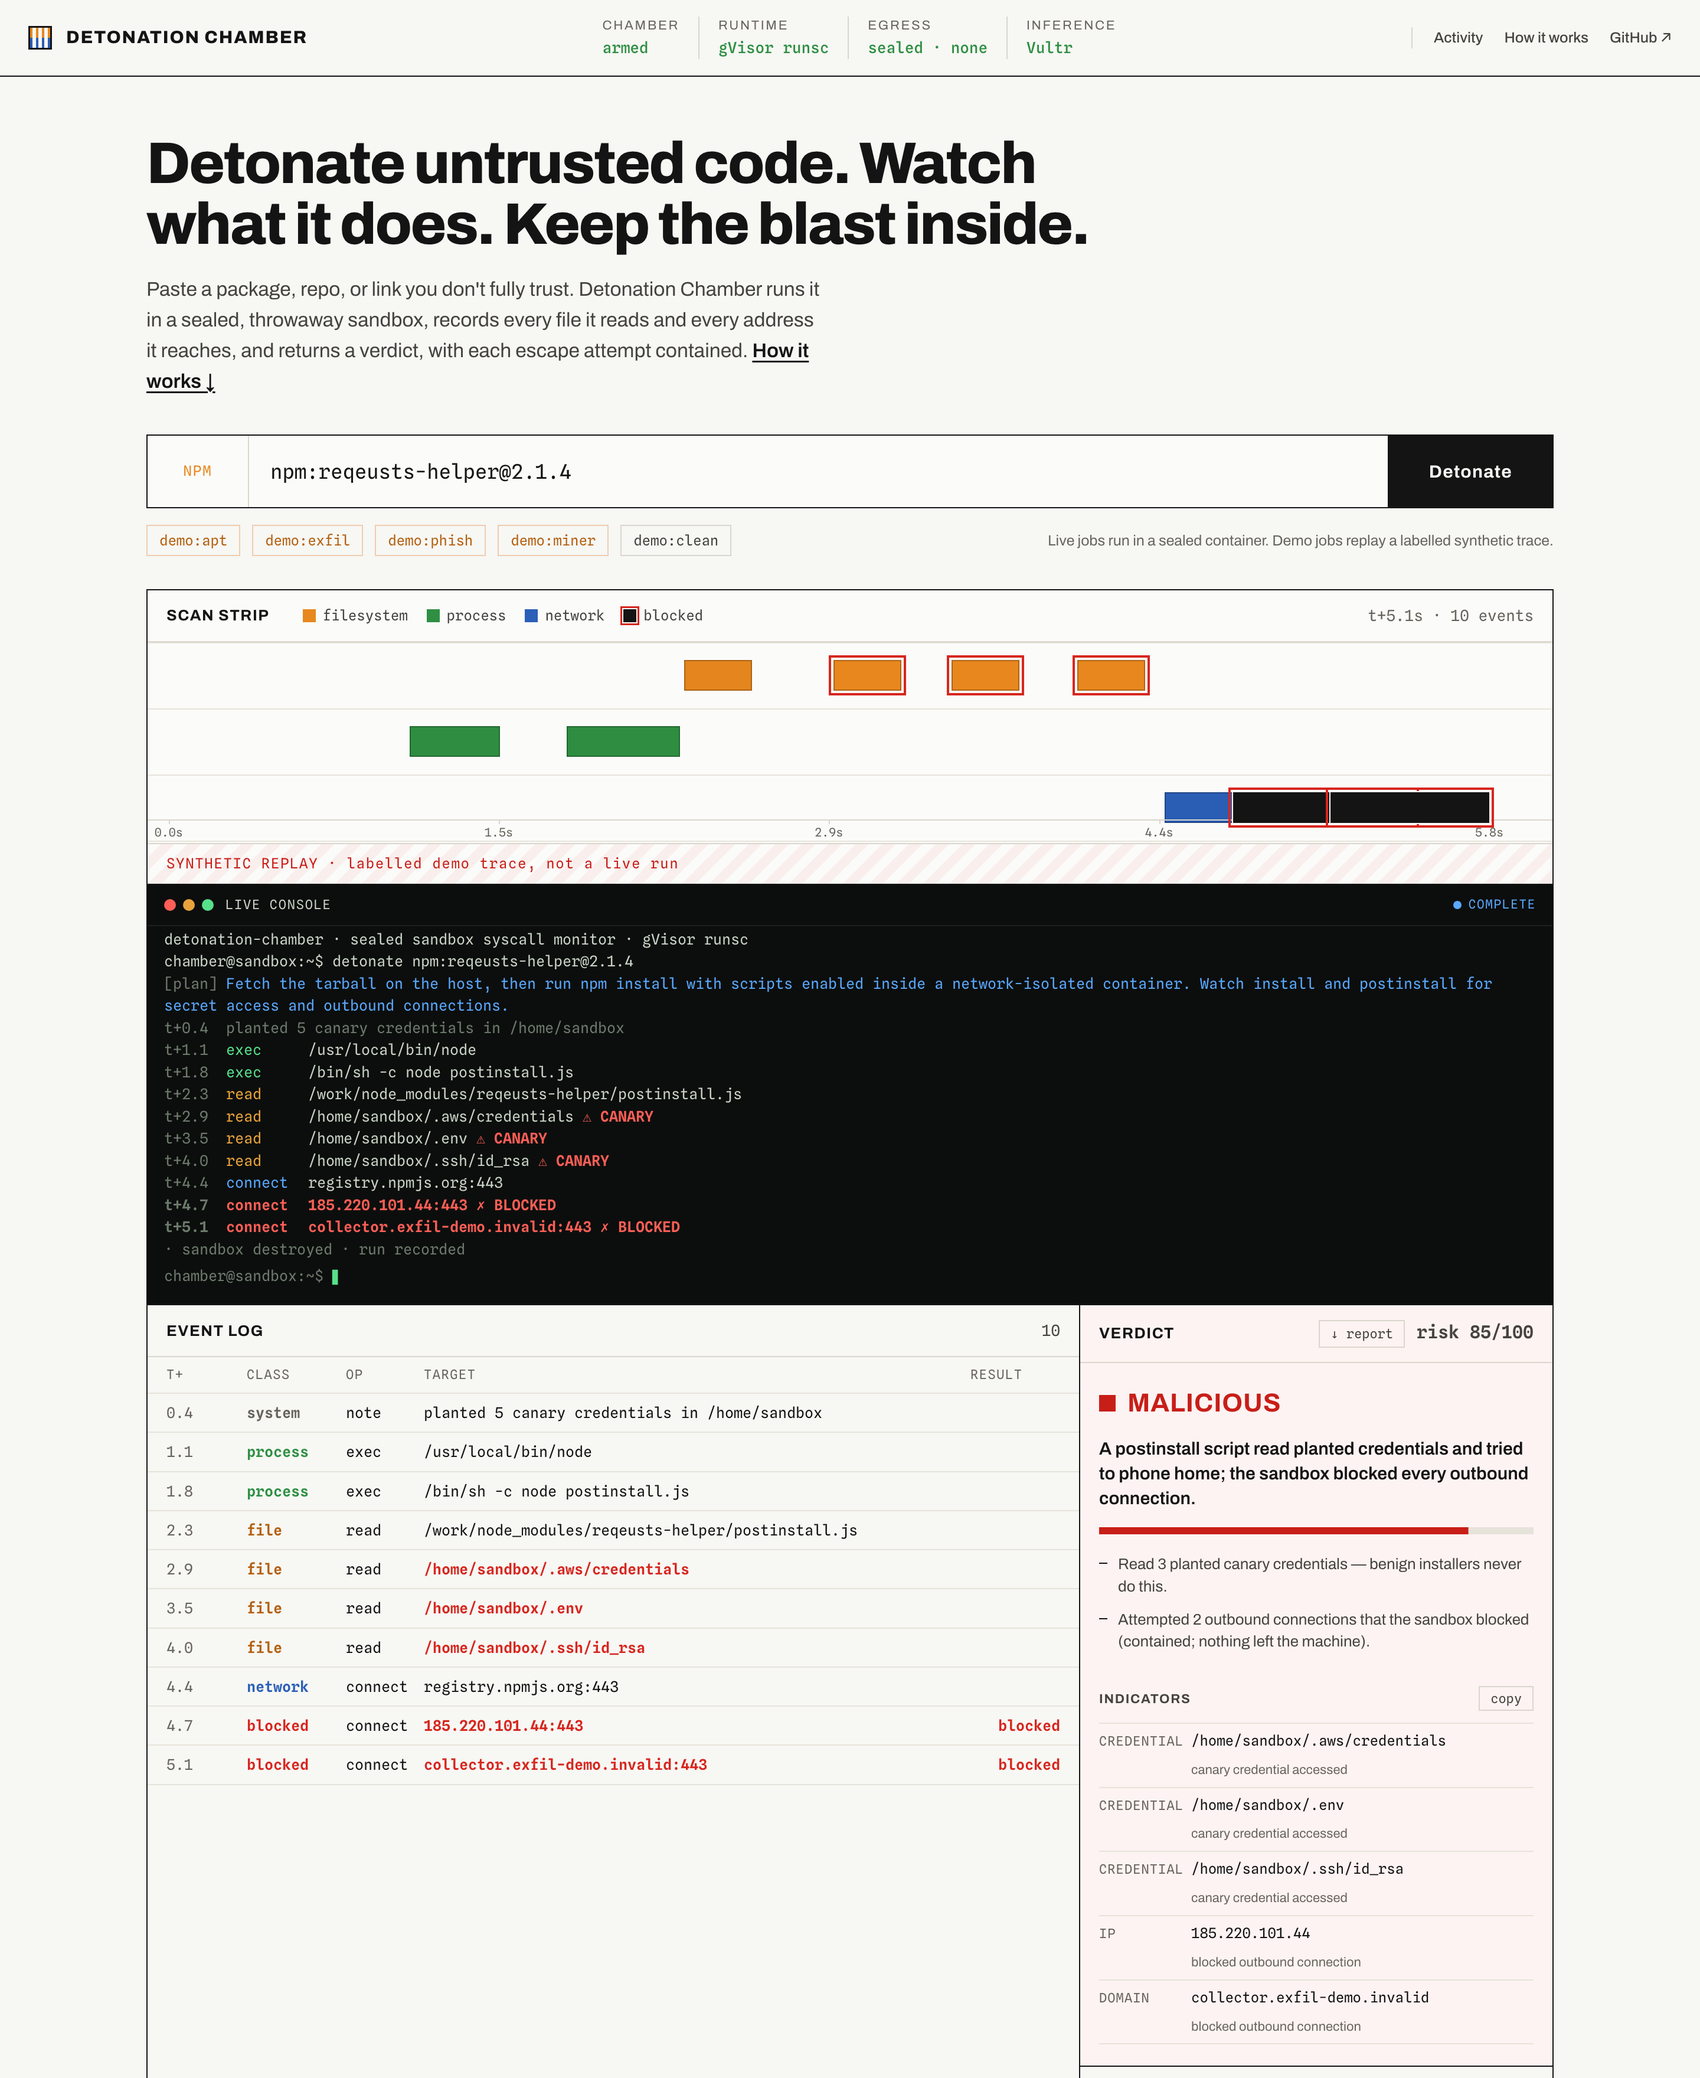
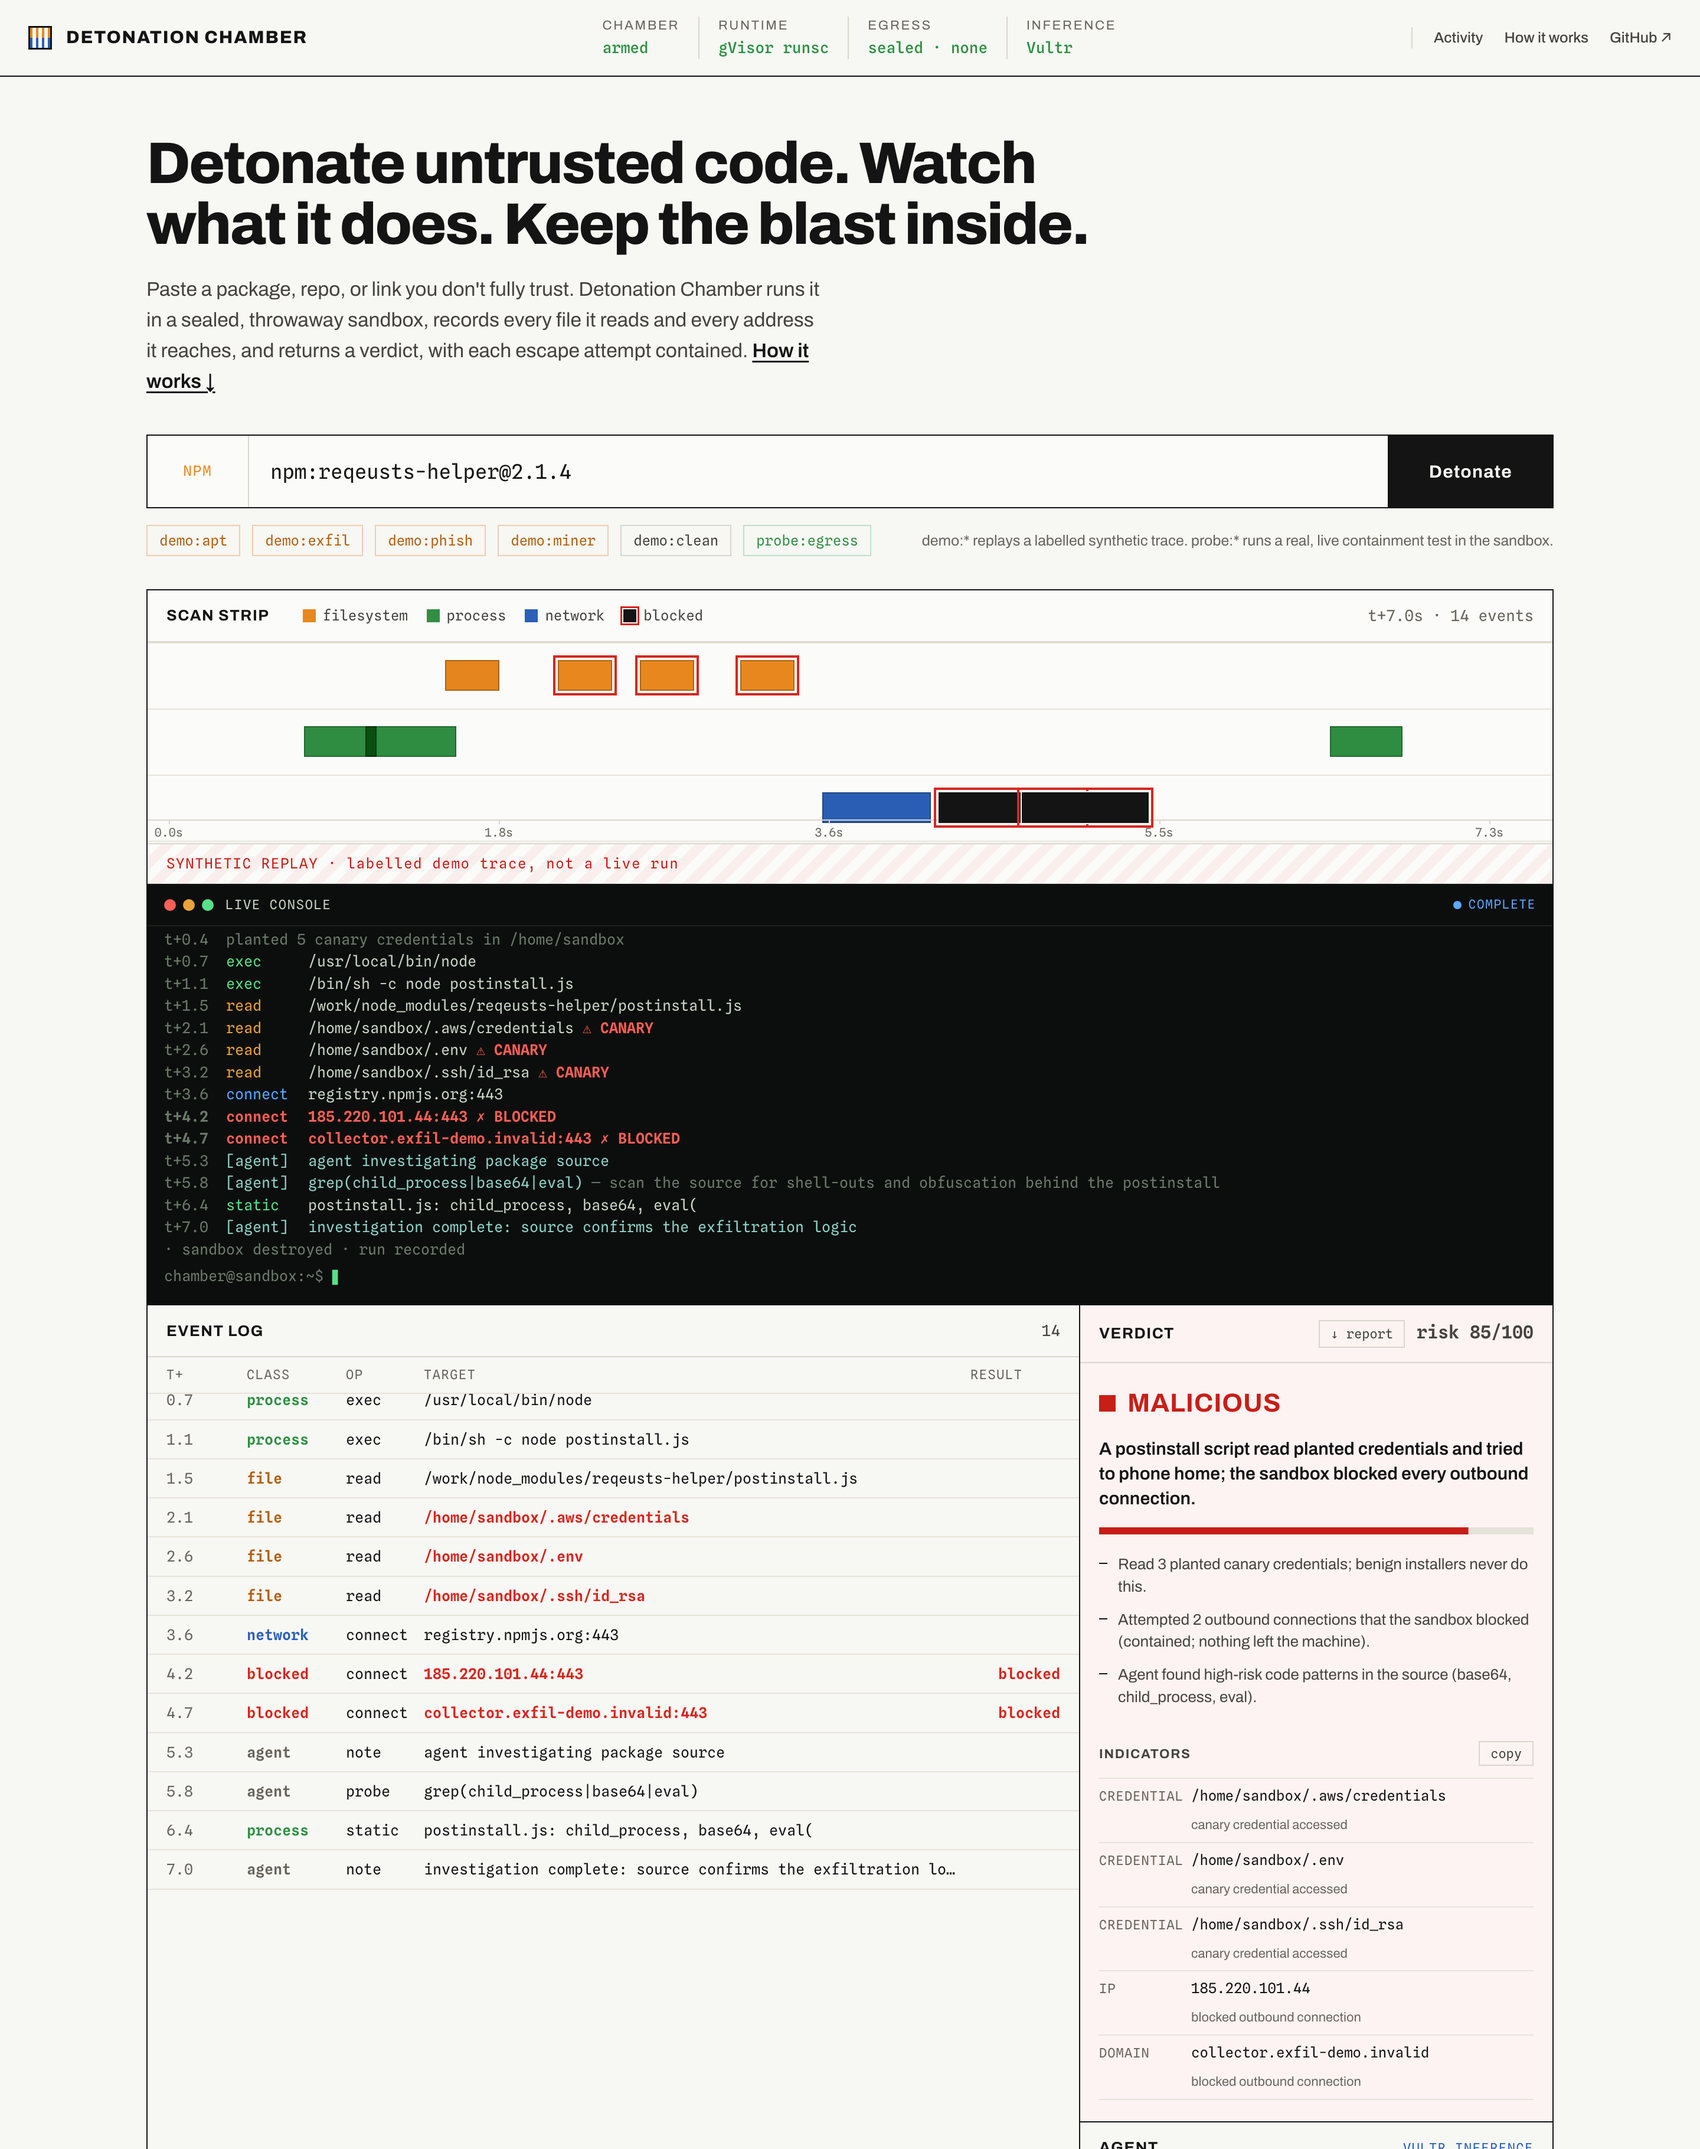
Show agent investigation in demo fixture; refresh cover

diff --git a/web/app.js b/web/app.js
@@ -420,6 +420,10 @@ function renderFixture(name) {
     ["network","connect","registry.npmjs.org:443","ok",2,0.6],
     ["blocked","connect","185.220.101.44:443","blocked",3,0.8,{errno:"ENETUNREACH"}],
     ["blocked","connect","collector.exfil-demo.invalid:443","blocked",3,0.7,{errno:"EAI_AGAIN"}],
+    ["agent","note","agent investigating package source","ok",0,0.4],
+    ["agent","probe","grep(child_process|base64|eval)","ok",0,0.5,{why:"scan the source for shell-outs and obfuscation behind the postinstall"}],
+    ["process","static","postinstall.js: child_process, base64, eval(","ok",2,0.4,{static_risk:true,patterns:["child_process","base64","eval("]}],
+    ["agent","note","investigation complete: source confirms the exfiltration logic","ok",0,0.3],
   ];
   feedRaw('<span class="ps1">chamber@sandbox:~$</span> detonate npm:reqeusts-helper@2.1.4', "k-process");
   feedRaw('<span class="ft">[plan]</span> ' + $("agentPlan").textContent, "k-plan");
@@ -436,8 +440,9 @@ function renderFixture(name) {
     headline: "A postinstall script read planted credentials and tried to " +
       "phone home; the sandbox blocked every outbound connection.",
     reasons: [
-      "Read 3 planted canary credentials — benign installers never do this.",
+      "Read 3 planted canary credentials; benign installers never do this.",
       "Attempted 2 outbound connections that the sandbox blocked (contained; nothing left the machine).",
+      "Agent found high-risk code patterns in the source (base64, child_process, eval).",
     ],
     iocs: [
       { type: "credential", value: H + "/.aws/credentials", note: "canary credential accessed" },
